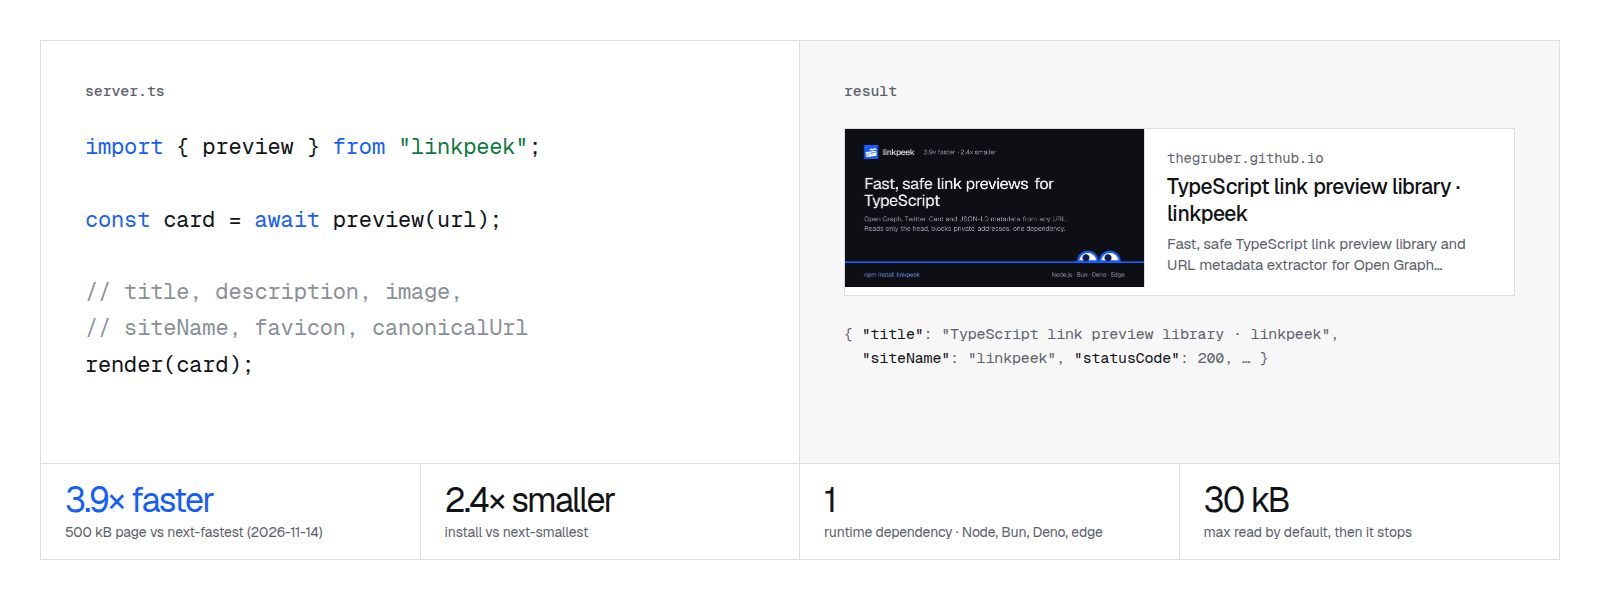
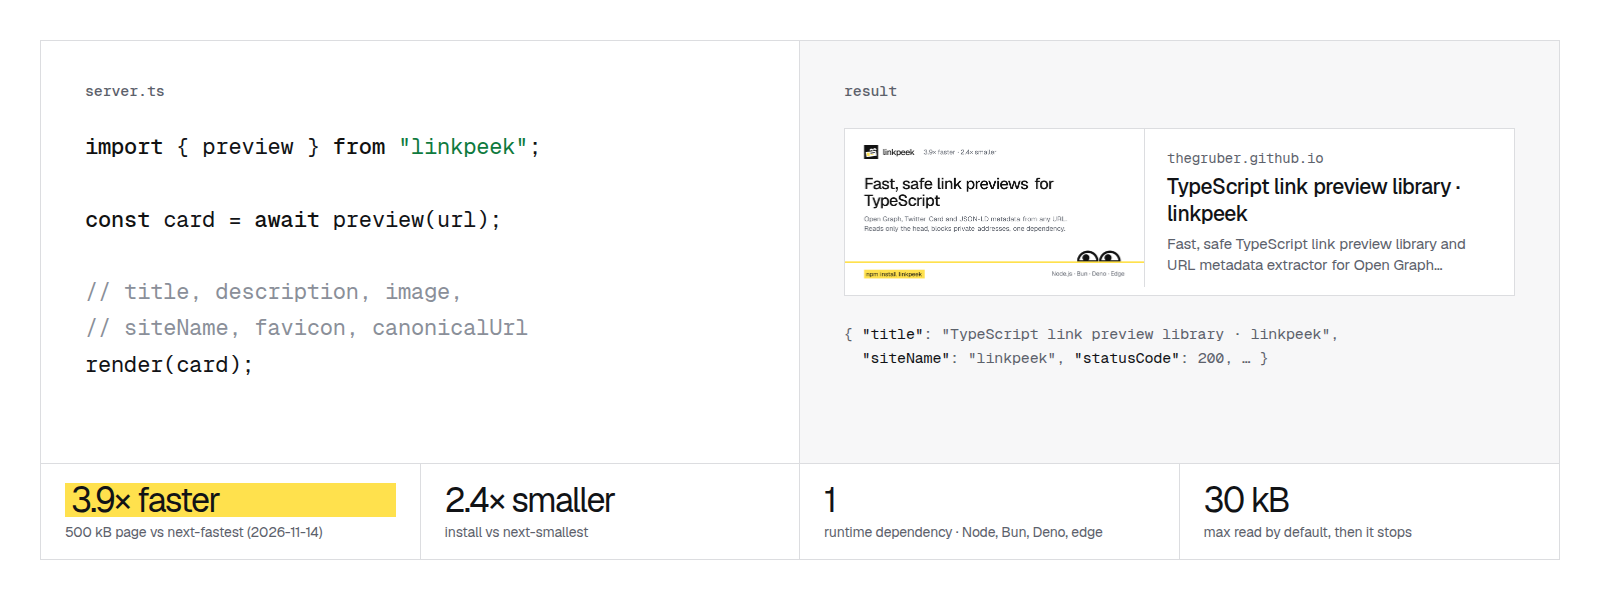
feat(brand): recolor the mark and assets to ink and highlighter yellow

diff --git a/AGENTS.md b/AGENTS.md
@@ -29,8 +29,8 @@
 - `npm run build --prefix website` also runs `scripts/check-site.mjs` (one H1, canonical, social tags, JSON-LD, Markdown twins, links, sitemap). Keep it passing.
 
 ## Brand
-- The mark is a link preview card, tilted as if just pasted, with two eyes peeking over its top edge and looking down at it. Sources live in `assets/brand/` (`mark.svg`, one-color `glyph.svg`, outlined `lockup-*.svg`, a simplified `favicon.svg` for 16–24 px, `mark-256.png`, `social-preview.png`).
-- Signal blue `#165dff` marks the one thing that matters on a surface; everything else stays neutral. Type is Geist (UI, headings, tracked tight) and Geist Mono (code, data, routes). The site is a Swiss grid: 1px rules forming rectangles, square corners, halftone dots as the only texture.
+- The mark is a link preview card, tilted as if just pasted, with two eyes peeking over its top edge and looking down at it. Sources live in `assets/brand/` (`mark.svg`, one-color `glyph.svg`, outlined `lockup-*.svg`, a simplified `favicon.svg` for 16–24 px, `mark-256.png`, `social-preview.png`, `readme-hero.png`).
+- Paper `#ffffff` and ink `#111111`, with one highlighter yellow `#ffe14d` that marks what linkpeek reads: the `<head>`. Yellow is a fill only (black text on it), never text on white. Type is Geist (UI, headings, tracked tight) and Geist Mono (code and data only). The site is a Swiss grid: 1px rules forming rectangles, square corners, halftone dots as the only texture. Use the eyes at most twice per page, and only where they look at something.
 
 ## Demo preview endpoint
 - `demo-api/` is the Vercel project `gubastudio/linkpeek-playground` (`https://linkpeek-playground.vercel.app/api/preview`), used by the homepage's "try any URL" demo. It deploys from Git with root directory `demo-api` (production from `main`); builds are skipped when the last commit does not touch `demo-api/`.
